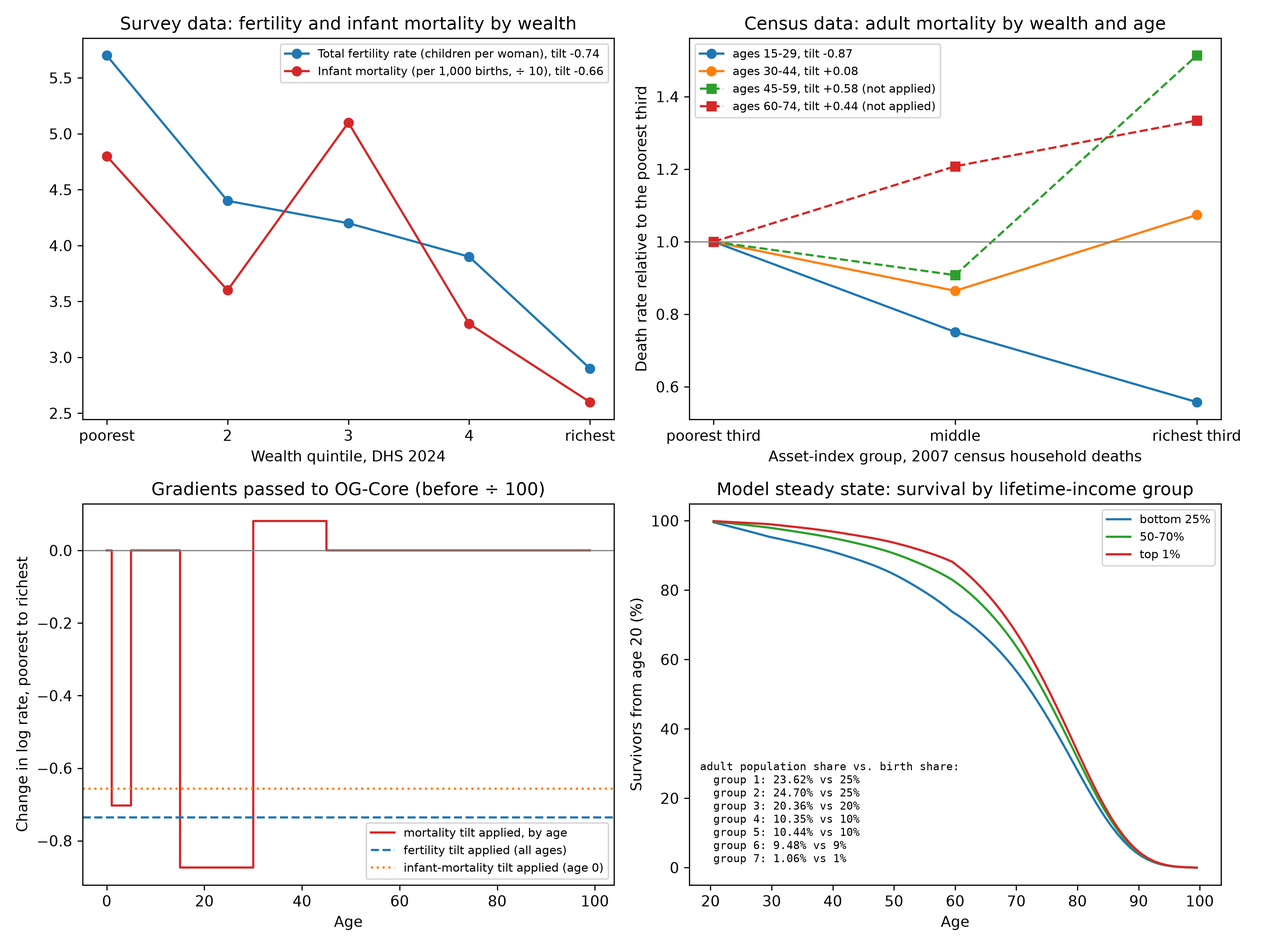
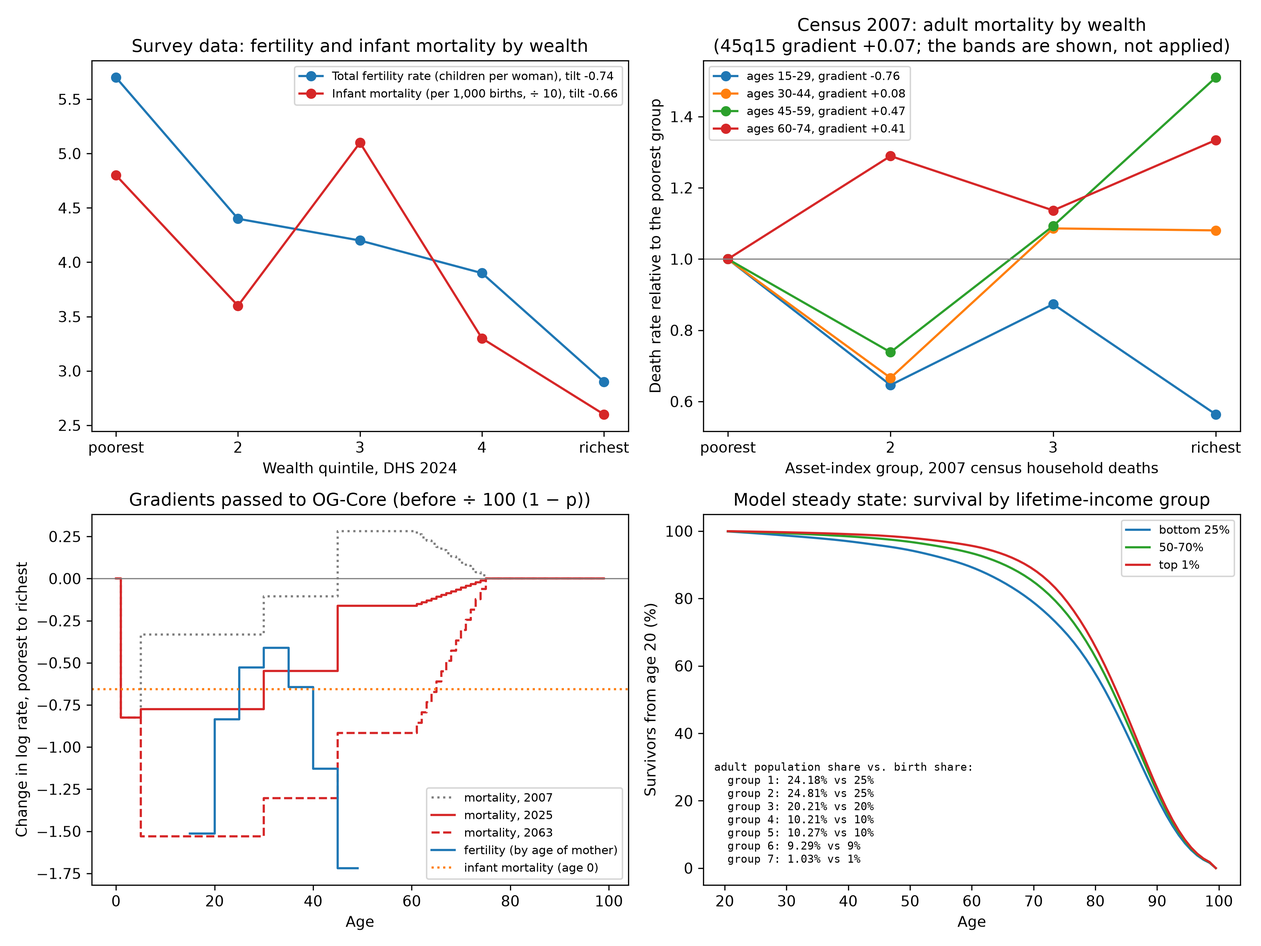
Docs: demographic gradients described as the library's current recipe (units, fertility by age, mortality recipe, income rule) with the figure regenerated; patience level set by the long-run return, with first-year investment reported as a measured miss; Frisch elasticity 0.25 with its evidence; Yes

diff --git a/docs/create_doc_figures.py b/docs/create_doc_figures.py
@@ -485,51 +485,80 @@ def demographics_by_income_group(save_path=None):
 
     ax = axes[0, 1]
     bands = lib[(lib.indicator == "AMR") & (lib.measure == "mx")]
+    groups = int(bands.groups.iloc[0])
     for row in bands.itertuples():
-        values = np.array([row.q1, row.q2, row.q3], dtype=float)
-        used = row.age_lo < calibrate.OLDEST_MEASURED_MORTALITY_AGE
-        ax.plot(
-            [1, 2, 3],
-            values / values[0],
-            "o-" if used else "s--",
-            label=(
-                f"ages {int(row.age_lo)}-{int(row.age_hi)}, "
-                f"tilt {row.slope:+.2f}" + ("" if used else " (not applied)")
-            ),
+        values = np.array(
+            [getattr(row, f"q{g}") for g in range(1, groups + 1)], dtype=float
         )
+        ax.plot(
+            np.arange(1, groups + 1),
+            values / values[0],
+            "o-",
+            label=f"ages {int(row.age_lo)}-{int(row.age_hi)}, "
+            f"gradient {row.slope:+.2f}",
+        )
+    g45 = lib[(lib.indicator == "AMR") & (lib.measure == "45q15")].iloc[0]
     ax.axhline(1.0, color="grey", lw=0.8)
-    ax.set_xticks([1, 2, 3])
-    ax.set_xticklabels(["poorest third", "middle", "richest third"])
+    ax.set_xticks(np.arange(1, groups + 1))
+    ax.set_xticklabels(
+        ["poorest"] + [str(g) for g in range(2, groups)] + ["richest"]
+    )
     ax.set_xlabel("Asset-index group, 2007 census household deaths")
-    ax.set_ylabel("Death rate relative to the poorest third")
-    ax.set_title("Census data: adult mortality by wealth and age")
+    ax.set_ylabel("Death rate relative to the poorest group")
+    ax.set_title(
+        f"Census 2007: adult mortality by wealth\n(45q15 gradient "
+        f"{g45.slope:+.2f}; the bands are shown, not applied)"
+    )
     ax.legend(loc="best", fontsize=8)
 
     ax = axes[1, 0]
     all_ages = np.arange(E + S)
-    ax.step(
-        all_ages,
-        100 * gradients["mort_gradient"],
-        where="post",
-        color="C3",
-        label="mortality tilt applied, by age",
+    df, offsets, rule, band = calibrate._library_tables(
+        calibrate.GRADIENT_FILE,
+        calibrate.FERTILITY_OFFSET_FILE,
+        calibrate.GENERAL_GRADIENT_FILE,
     )
-    ax.axhline(
-        100 * gradients["fert_gradient"],
+    start = int(params["start_year"])
+    for year, color, ls in [
+        (calibrate.CENSUS_YEAR, "C7", ":"),
+        (start, "C3", "-"),
+        (2063, "C3", "--"),
+    ]:
+        shift = (
+            0.0
+            if year == calibrate.CENSUS_YEAR
+            else float(
+                calibrate.income_rule_shift(
+                    [year], float(params["g_y_annual"]), rule
+                )[0]
+            )
+        )
+        ax.step(
+            all_ages,
+            calibrate.mortality_gradient_by_age(E, S, df, band, shift),
+            where="post",
+            color=color,
+            ls=ls,
+            label=f"mortality, {year}",
+        )
+    fertile = (all_ages >= 15) & (all_ages < 50)
+    ax.step(
+        all_ages[fertile],
+        100 * gradients["fert_gradient"][fertile],
+        where="post",
         color="C0",
-        ls="--",
-        label="fertility tilt applied (all ages)",
+        label="fertility (by age of mother)",
     )
     ax.axhline(
         100 * gradients["infmort_gradient"],
         color="C1",
         ls=":",
-        label="infant-mortality tilt applied (age 0)",
+        label="infant mortality (age 0)",
     )
     ax.axhline(0.0, color="grey", lw=0.8)
     ax.set_xlabel("Age")
     ax.set_ylabel("Change in log rate, poorest to richest")
-    ax.set_title("Gradients passed to OG-Core (before ÷ 100)")
+    ax.set_title("Gradients passed to OG-Core (before ÷ 100 (1 − p))")
     ax.legend(loc="best", fontsize=8)
 
     ax = axes[1, 1]

diff --git a/docs/book/content/calibration/households.md b/docs/book/content/calibration/households.md
@@ -33,6 +33,7 @@ for j, b in enumerate(beta, start=1):
 glue("beta_low_rate", f"{100 * (1 / beta[0] - 1):.0f}", display=False)
 glue("chi_b_1", f"{float(params['chi_b'][0]):.1f}", display=False)
 glue("beta_damping", f"{BETA_DAMPING}", display=False)
+glue("frisch", f"{float(params['frisch'])}", display=False)
 glue("beta_step", f"{100 * (BETA_STEP - 1):.0f} percent", display=False)
 
 # written by docs/create_doc_figures.py from the run behind wealth_vs_data.png
@@ -50,7 +51,7 @@ glue("wealth_floor", f"{100 * shares['model'][0]:.1f}", display=False)
 
 ### Elasticity of labor supply
 
-As discussed in the [OG-Core household theory documentation](https://pslmodels.github.io/OG-Core/content/theory/households.html), we use the elliptical disutility of labor function developed by {cite}`EvansPhillips:2017`.  We then fit the parameters of the elliptical utility function to match the marginal disutility from a constant Frisch elasticity function.  `OG-ETH` users enter the constant Frisch elasticity as a parameter.  {cite}`Peterman:2016` finds a range of Frisch elasticities estimated from microeconomic and macroeconomic data.  These range from 0 to 4.  Peterman makes the case that in lifecycle models without an extensive margin for employment the  Frisch elasticity should be higher. For `OG-ETH` we take a default value of 0.4 from {cite}`Altonji:1986`.
+As discussed in the [OG-Core household theory documentation](https://pslmodels.github.io/OG-Core/content/theory/households.html), we use the elliptical disutility of labor function developed by {cite}`EvansPhillips:2017`, whose parameters OG-Core fits to the marginal disutility of a constant Frisch elasticity.  `OG-ETH` sets that elasticity to {glue:text}`frisch` (`FRISCH` in `ogeth/macro_params.py`), below OG-USA's 0.4 from {cite}`Altonji:1986`.  OG-Core's households choose hours per person over the life cycle, so the relevant value is the micro Frisch elasticity of total hours.  Corrected for publication bias, a meta-analysis of more than 700 estimates on each margin puts the intensive margin at about 0.2 and total hours at about 0.25 ({cite}`Elminejad:2023`); {cite}`Chetty:2013` bound the intensive margin below 0.47.  In a setting close to Ethiopia's, randomly offered daily wages in rural Malawi give 0.15 to 0.16 ({cite}`Goldberg:2016`), and off-farm hours in western Ethiopia respond with elasticities of 0.13 to 0.22.  Participation in Ethiopia is near universal and does not vary with education, so the extensive margin adds little, and scarce credit and rationed lean-season work lower the substitution response further.  The range for sensitivity analysis is 0.15 to 0.4.
 
 ### Disutility of labor by age
 
@@ -95,9 +96,9 @@ The default value for the intertemporal elasticity of substitution, $\sigma$, is
 
 Households in OG-Core save for retirement and to leave bequests, and the strength of those motives by lifetime-income group is what shapes the distribution of wealth beyond what the earnings profiles imply.  OG-USA matches the US wealth distribution with **heterogeneous discount factors** $\beta_j$ — richer groups discount the future less and so save a larger share of their income — and `OG-ETH` follows that convention.  The bequest weight $\chi^b_j$ stays at OG-USA's 80 for every group except the bottom quarter (below).
 
-The targets are the World Inequality Database's net personal wealth shares for Ethiopia {cite}`WID:2024` (equal-split adults, 2021): the bottom half of adults hold 4.8 percent of wealth, the middle 40 percent 37.1, the top decile 58.1 and the top percent 23.6; the wealth Gini is 0.735.  The seven groups' targets are read off the cumulative shares at the 25th, 50th, 70th, 80th, 90th and 99th percentiles, as for the income shares in {ref}`Chap_LfEarn`.  The bottom quarter's share is negative in the data (−0.5 percent; they are net debtors), which the model's households, who cannot borrow, cannot reproduce, so that group is given a floor of half a percent.  Its discount factor is tied to the second group's, and its share is matched instead with its own bequest weight $\chi^b_1$.  With OG-USA's 80 the poorest elderly, whose transfers and remittances are several times their consumption, saved nearly all of them for bequests: the bottom quarter held 2.3 percent of wealth, the oldest of them ten times the group's average, and that hoarding left their first-year household problem so badly conditioned that a reform's transition could not solve it (OG-Core's check on households alive in the first year caught it).  A weight of {glue:text}`chi_b_1` brings the group to its floor, and the reform's transition then solves with Euler errors near 1e-10.  The wealth shares pin down *relative* patience across groups.  The *level* of the discount factors is set by gross capital formation in the first model year, FY2024/25: 35.3 percent of rebased GDP ({ref}`Sec_Rebasing`).  Ethiopia's population is far from stationary and initial household wealth is anchored to the data, so a level tuned to a steady-state capital-output ratio would make households too impatient or too patient for today, and the first years would show a consumption windfall or collapse; first-year investment is the measured flow that patience moves most directly (OG-PHL's practice).  The steady-state capital-output ratio is then an outcome ({ref}`Sec_Validation`).
+The targets are the World Inequality Database's net personal wealth shares for Ethiopia {cite}`WID:2024` (equal-split adults, 2021): the bottom half of adults hold 4.8 percent of wealth, the middle 40 percent 37.1, the top decile 58.1 and the top percent 23.6; the wealth Gini is 0.735.  The seven groups' targets are read off the cumulative shares at the 25th, 50th, 70th, 80th, 90th and 99th percentiles, as for the income shares in {ref}`Chap_LfEarn`.  The bottom quarter's share is negative in the data (−0.5 percent; they are net debtors), which the model's households, who cannot borrow, cannot reproduce, so that group is given a floor of half a percent.  Its discount factor is tied to the second group's, and its share is matched instead with its own bequest weight $\chi^b_1$.  With OG-USA's 80 the poorest elderly, whose transfers and remittances are several times their consumption, saved nearly all of them for bequests: the bottom quarter held 2.3 percent of wealth, the oldest of them ten times the group's average, and that hoarding left their first-year household problem so badly conditioned that a reform's transition could not solve it (OG-Core's check on households alive in the first year caught it).  A weight of {glue:text}`chi_b_1` brings the group to its floor, and the reform's transition then solves with Euler errors near 1e-10.  The wealth shares pin down *relative* patience across groups.  The *level* of the discount factors is set so that the steady-state return on capital equals the world rate, 4 percent ({ref}`Sec_Validation`): a small open economy's domestic return converges to what foreign investors earn as capital controls and financial repression are unwound.  An earlier calibration tuned the level to gross capital formation in the first model year, 35.3 percent of rebased GDP.  That made households finance all of it, including state-enterprise investment financed through state banks, and required a long-run return of about 2 percent, below the world rate, with foreign-owned capital leaving.  The measurable state channels (state-enterprise retained earnings, about 0.7 percent of GDP, and financial repression beyond the below-market government borrowing rate the model already carries, about 0.2 percent) close less than a point of that gap, so first-year investment is reported as a measured miss rather than tuned.  The cost is a first-year consumption share above the data: patience tuned to the long run makes today's households consume more of today's income.
 
-The calibration runs through `examples/tune.py`, which solves the steady state and the transition from the packaged parameters and after each run moves every fitted group's $\beta_j$ by the ratio of its target to its model wealth share, then restores the population-weighted mean of $\log\beta_j$ so that the level is untouched; the level moves separately by the ratio of the investment target to the model's first-year investment share.  A group's steady-state wealth is very elastic to its discount factor and the shares interact through the interest rate, so those updates are damped (an exponent of {glue:text}`beta_damping`, no more than {glue:text}`beta_step` a solve, halved for a group whenever its gap changes sign), and the level update by an exponent of 0.4 and no more than four percent a run (`LEVEL_DAMPING` and `LEVEL_STEP` in `examples/tune.py`).
+The calibration runs through `examples/tune.py`, which solves the steady state and the transition from the packaged parameters and after each run moves every fitted group's $\beta_j$ by the ratio of its target to its model wealth share, then restores the population-weighted mean of $\log\beta_j$ so that the level is untouched; the level moves separately, by the gap between the steady-state return and the world rate times the measured response of the return to patience.  A group's steady-state wealth is very elastic to its discount factor and the shares interact through the interest rate, so those updates are damped (an exponent of {glue:text}`beta_damping`, no more than {glue:text}`beta_step` a solve, halved for a group whenever its gap changes sign), and the level update by a factor of 0.8 and no more than four percent a run (`R_LEVEL_SLOPE`, `LEVEL_DAMPING` and `LEVEL_STEP` in `examples/tune.py`).
 
 ```{figure} ./images/wealth_vs_data.png
 ---
@@ -107,8 +108,8 @@ name: FigWealthVsData
 Left: the steady-state share of household wealth held by each lifetime-income group against the WID target (with the bottom quarter floored) and the raw WID shares. Right: the calibrated annual discount factors $\beta_j$ against the single 0.88 used before.
 ```
 
-The calibrated discount factors are {glue:text}`beta_1` for the two groups in the bottom half, {glue:text}`beta_3`, {glue:text}`beta_4` and {glue:text}`beta_5` for the 50th–90th percentiles, {glue:text}`beta_6` for the 90th–99th and {glue:text}`beta_7` for the top percent, with a population-weighted level set by first-year investment (the fit is in the validation table of {ref}`Sec_Validation`).  The resulting steady-state wealth shares are {glue:text}`wealth_model` percent for groups 2–7 against targets of {glue:text}`wealth_target`, and {glue:text}`wealth_floor` for the floored bottom quarter.  The spread is wide, and the low end has independent support: the bottom half's discount factor is an annual discount rate of about {glue:text}`beta_low_rate` percent, and the one experimental measurement of time preference in Ethiopia, among 262 farm households in the highlands, found median annual rates of 43 to 105 percent depending on the horizon, rising with poverty ({cite}`YesufBluffstone:2008`).  The top percent's {glue:text}`beta_7` is in the range OG-USA estimates for the richest US groups.  Two cautions: the wealth shares WID reports rest on the same consumption surveys as its income shares and a borrowed top correction, and with heterogeneous patience the model's response to a reform is no longer that of a representative saver — the top percent, which holds a quarter of the wealth, reacts much more to the return on capital than the bottom half does.
+The calibrated discount factors are {glue:text}`beta_1` for the two groups in the bottom half, {glue:text}`beta_3`, {glue:text}`beta_4` and {glue:text}`beta_5` for the 50th–90th percentiles, {glue:text}`beta_6` for the 90th–99th and {glue:text}`beta_7` for the top percent, with a population-weighted level set by the long-run return (the fit is in the validation table of {ref}`Sec_Validation`).  The resulting steady-state wealth shares are {glue:text}`wealth_model` percent for groups 2–7 against targets of {glue:text}`wealth_target`, and {glue:text}`wealth_floor` for the floored bottom quarter.  The spread is wide, and the low end has independent support: the bottom half's discount factor is an annual discount rate of about {glue:text}`beta_low_rate` percent, and the one experimental measurement of time preference in Ethiopia, among 262 farm households in the highlands, found median annual rates of 43 to 106 percent depending on the horizon, rising with poverty ({cite}`YesufBluffstone:2019`).  A meta-analysis of 927 experimental estimates finds that publication bias roughly doubles reported rates, with a corrected mean of about 33 percent a year ({cite}`Matousek:2022`), and the literature reads the high rates measured in poor households largely as credit constraints and cash shortages rather than preference.  The top percent's {glue:text}`beta_7` is in the range OG-USA estimates for the richest US groups.  Two cautions: the wealth shares WID reports rest on the same consumption surveys as its income shares and a borrowed top correction, and with heterogeneous patience the model's response to a reform is no longer that of a representative saver — the top percent, which holds a quarter of the wealth, reacts much more to the return on capital than the bottom half does.
 
 ### Rate of time preference
 
-Earlier versions set one discount factor for every household against the Penn World Table capital-output ratio (0.96 inherited from OG-USA, then 0.92, 0.90 and 0.88).  The calibration above replaces that: relative patience across groups is identified by the wealth distribution and its level by first-year investment, and the capital-output ratio is an outcome ({ref}`Sec_Validation`).  On the rebased accounts the Penn World Table ratio is itself provisional ({ref}`Sec_Rebasing`), which is another reason not to target it.
+Earlier versions set one discount factor for every household against the Penn World Table capital-output ratio (0.96 inherited from OG-USA, then 0.92, 0.90 and 0.88).  The calibration above replaces that: relative patience across groups is identified by the wealth distribution and its level by the long-run return, and the capital-output ratio is an outcome ({ref}`Sec_Validation`).  On the rebased accounts the Penn World Table ratio is itself provisional ({ref}`Sec_Rebasing`), which is another reason not to target it.

diff --git a/docs/book/content/calibration/demographics.md b/docs/book/content/calibration/demographics.md
@@ -202,12 +202,12 @@ We discuss the approach to estimating fertility rates $f_{s,t}$, mortality rates
 
 Since OG-Core 0.18 the fertility, mortality and immigration rates, and therefore the population distribution, can differ across the $J$ lifetime-income groups; the $\lambda_j$ then give the share of each cohort *born* into a group rather than its share of the population at every age. OG-Core takes an income *gradient* for each rate — the slope of the log-odds of the rate per percentile of the lifetime-income distribution — and re-solves the level of each rate at every age so that the UN aggregate rate is preserved exactly. The `OG-ZAF`, `OG-PHL` and `OG-IDN` migrations to that version pass no gradient, so their groups share one demographic profile. `OG-ETH` sets the gradients from Ethiopian measurements.
 
-The measurements come from the [EAPD-DRB/Demographic-Gradients](https://github.com/EAPD-DRB/Demographic-Gradients) library, which collects wealth gradients in demographic rates for the OG-Core country models; its Ethiopian rows ship with this package in `ogeth/data/demographic_gradients_ETH.csv` and are read by `ogeth.calibrate.demographic_gradients`. A gradient in the library is the OLS slope of the log rate on wealth rank from 0 to 1, so it is the change in the log rate from the poorest to the richest household; OG-Core's gradient is per centered percentile point, so the library value is divided by 100. Negative means the poor have the higher rate.
+The measurements come from the [EAPD-DRB/Demographic-Gradients](https://github.com/EAPD-DRB/Demographic-Gradients) library (commit `ccf53a0`, 16 November 2026), which collects wealth gradients in demographic rates for the OG-Core country models and gives a recipe for passing them to OG-Core. Its Ethiopian rows, its pooled fertility offsets by age and its general-gradient file ship with this package in `ogeth/data/` (`demographic_gradients_ETH.csv`, `demographic_fertility_age_offsets.csv`, `demographic_general_gradient.csv`) and are read by `ogeth.calibrate.demographic_gradients`. A gradient in the library is the OLS slope of the log rate on wealth rank from 0 to 1; negative means the poor have the higher rate. OG-Core reads a slope in the log-odds of the rate per centered percentile point, so each value is passed as gradient / (100 (1 − p)), where p is OG-Core's own rate at that age and year, read from the same UN data the demographics use (`ogeth.calibrate.demographic_rates`). The (1 − p) term matters most for fertility and infant mortality, whose rates are highest.
 
-- **Fertility.** From the 2024 Ethiopia Demographic and Health Survey, the total fertility rate by wealth quintile is 5.7, 4.4, 4.2, 3.9 and 2.9 children, a tilt of −0.74: the poorest quintile bears almost twice as many children as the richest. The same tilt is applied at every age of the fertility schedule.
-- **Infant mortality.** From the same survey, 48, 36, 51, 33 and 26 deaths per thousand births by quintile, a tilt of −0.66 (the library's under-five tilt, −0.70, is used for ages 1–4).
-- **Adult mortality.** Ethiopia has its own census measurement — the household deaths module of the 2007 census, with households ranked by an asset index. The gradient is steep among the young, −0.87 at ages 15–29, and flat at 30–44 (+0.08). At 45 and above the census measures *higher* mortality in wealthier households (+0.58 at 45–59, +0.44 at 60–74); the library flags this reversal, common to the poorest countries in its set, as at least partly a reporting artefact — a frail elderly relative moves into a better-off household before dying — and Ethiopia's summary tilt for ages 15–59 is essentially flat (+0.09). We therefore apply the measured tilts through age 44 and none from 45 on at the census year; ages 5–14, for which there is no measurement, also carry none.
-- **The adult gradient steepens over time.** The census is from 2007, when Ethiopia's GNI per head was $210; it is $1,100 today, and the library finds that the adult-mortality gradient tracks national income closely across its 17 censuses (r = −0.88): $\text{tilt}(45q15) = 1.291 - 0.244\,\ln(\text{GNI per capita})$, so doubling income per head steepens the gradient by about 0.17. Ethiopia's flat 2007 measurement sits on that line. We therefore shift the measured tilts at ages 15–59 by the rule's change since 2007 — about −0.41 in 2025 — and let them keep steepening along the model's own 4.7 percent per-capita growth, stopping at $10,000 per head (about 2070), where the rule's fit ends. OG-Core accepts the gradient as a path over the full transition, so no change to the model was needed. The poorest quarter's mortality at age 30 is 1.35 times the richest percent's in 2025, 1.8 times by 2055 and 2.1 times in the long run; the probability of surviving from 20 to 65 is 70 percent for the poorest and 77 percent for the richest today, and 87 against 92 percent in the long run, as mortality falls at every age along the UN projection.
+- **Fertility.** From the 2024 Ethiopia Demographic and Health Survey, the total fertility rate by wealth quintile is 5.7, 4.4, 4.2, 3.9 and 2.9 children, a gradient of −0.74. The library's pooled offsets by age of mother are added, so that poorer women have their children earlier as well as having more of them: −1.51 at 15–19, −0.84 at 20–24, −0.53, −0.41, −0.64, −1.13 and −1.72 at 45–49 (ages below 15 take the 15–19 value, ages 50 and above the 45–49 value).
+- **Infant and child mortality.** From the same survey, infant deaths per thousand births by quintile are 48, 36, 51, 33 and 26, a gradient of −0.66; at ages 1–4 the survey's own child-mortality gradient, −0.82, is used.
+- **Adult mortality.** Ethiopia has its own census measurement: the household deaths module of the 2007 census (IPUMS International), with households ranked by an asset index into four groups. Its summary gradient in the probability of dying between 15 and 60 (45q15) is +0.07, essentially flat. Following the library's recipe, the gradient at each age is the 45q15 value plus the library's offsets by age band: ages 5–29 −0.41, 30–44 −0.18, 45–59 +0.21; from 60 the 45–59 value falls in a straight line to zero at 75, and it is zero from 75 on. The measured bands themselves are not used: the census records higher death rates in wealthier households from age 45, which the library treats as at least partly a reporting artefact.
+- **The adult gradient steepens with income.** Across countries the adult-mortality gradient is steeper the richer the country: the library's rule is gradient(45q15) = 2.975 − 0.432 ln(GDP per capita, PPP, constant 2021 international dollars), fitted on 19 censuses and surveys between about $1,100 and $18,000 (the slope's standard error is 0.091). Ethiopia's measurement is from 2007, at $1,109; GDP per capita is $3,095 in 2025. The 45q15 gradient is therefore shifted by the rule's change since 2007, about −0.44 in 2025, and keeps shifting along the model's 4.7 percent per-capita growth until income reaches the top of the rule's range (about 2063), where it is held. In 2025 the gradient is −0.78 at ages 5–29, −0.55 at 30–44 and −0.16 at 45–59. The library also allows holding the measured gradient fixed; its ruling on the choice is pending, and the two bracket the treatment. OG-Core accepts the gradients as paths by year and age, so no change to the model was needed.
 
 Two properties of the mechanics are worth keeping in mind. Because OG-Core preserves the UN aggregate at every age, the gradients redistribute births and deaths across groups without changing the total population path, so $g_n$ and the aggregate age distribution are unchanged; what changes is the joint distribution $\omega_{s,j}$ and the survival probabilities each group faces. And because the model's groups are defined by *lifetime income* while the surveys rank households by current *wealth*, the gradients are a proxy: a household's wealth rank and its lifetime-income rank are correlated but not the same thing.
 
@@ -219,7 +219,7 @@ name: FigDemogIncome
 Top: the measurements behind the gradients — DHS 2024 fertility and infant mortality by wealth quintile, and the 2007 census death rates by asset group and age band (dashed: the older bands that are not applied). Bottom: the tilts passed to OG-Core by age, and the survival curves by lifetime-income group they produce in the packaged steady state, with each group's share of the adult population against its share of births.
 ```
 
-The effects on the packaged demographics are modest, for two reasons. The fertility gradient does not change how many households are born into each group — that is fixed by $\lambda_j$, and OG-Core's households have no children to raise — so its footprint is confined to the ages at which each group's births occur. And the adult-mortality gradient is applied only at ages 15–59 — the census tilts where Ethiopia's census measures a gradient of the expected sign (through age 44), shifted by the income rule above — while most of the deaths that shape the age distribution happen later. In the steady state the poorest quarter of births make up 24.4 percent of the adult population and the richest percent 1.02, against 25 and 1 without gradients; the probability of surviving from 20 to 65 is 86.6 percent in the poorest group and 92.2 in the richest. The remittance and transfer allocation matrices, which are per capita within groups, are rebuilt on the new distribution (`python -m ogeth.update_baseline --demographics-only` regenerates all of it from the UN data, without touching the rest of the file).
+The effects on the packaged demographics are modest, for two reasons. The fertility gradient does not change how many households are born into each group — that is fixed by $\lambda_j$, and OG-Core's households have no children to raise — so its footprint is confined to the ages at which each group's births occur. And the adult-mortality gradient fades to zero by age 75, while most of the deaths that shape the age distribution happen later. In the steady state the poorest quarter of births make up 24.2 percent of the adult population and the richest percent 1.03, against 25 and 1 without gradients; the probability of surviving from 20 to 65 is 70.7 percent in the poorest group and 75.8 in the richest in the first model year, and 85.4 against 93.5 in the steady state, as mortality falls at every age along the UN projection and the gradient steepens with income. The remittance and transfer allocation matrices, which are per capita within groups, are rebuilt on the new distribution (`python -m ogeth.update_baseline --demographics-only` regenerates all of it from the UN data, without touching the rest of the file).
 
 (SecDemogPopSSTP)=
 ## Population steady-state and transition path
